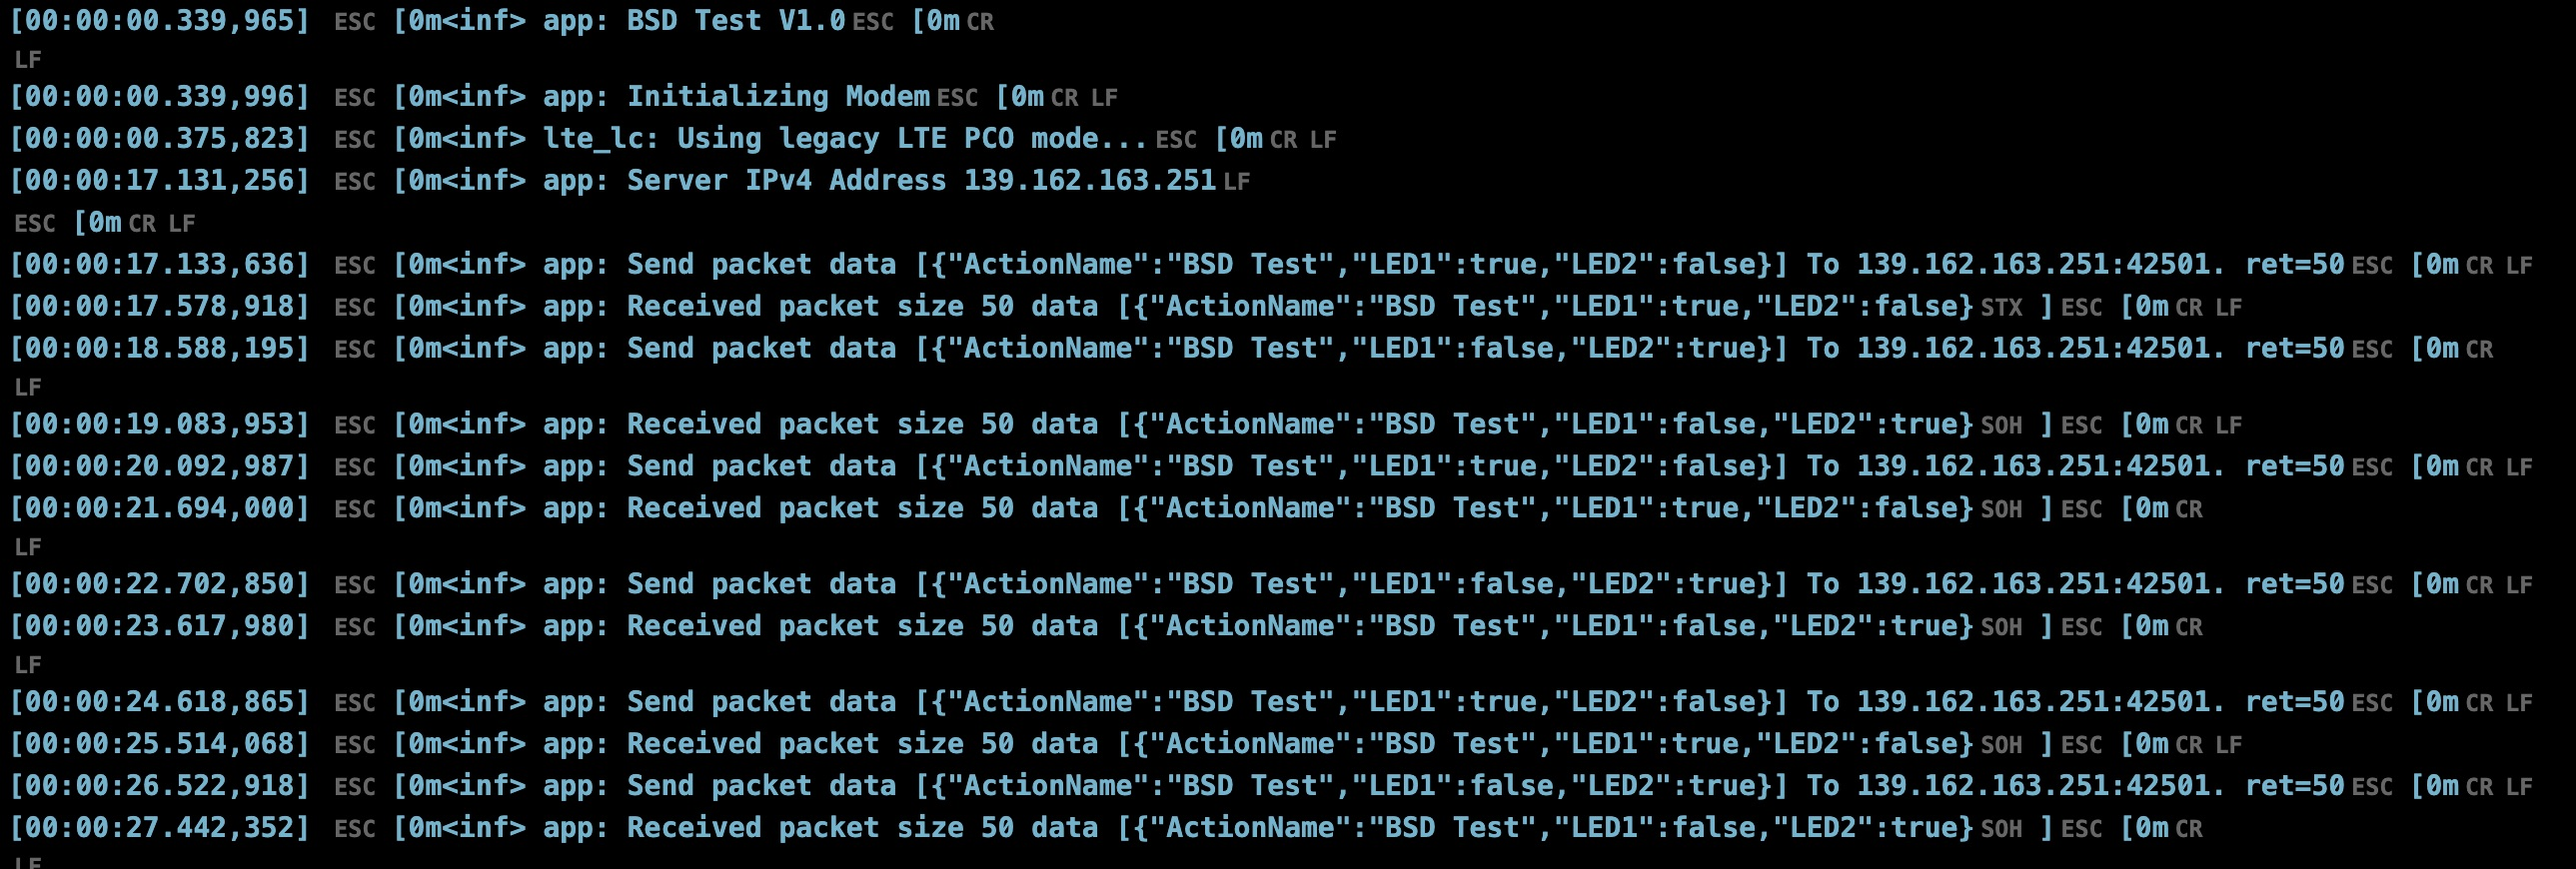
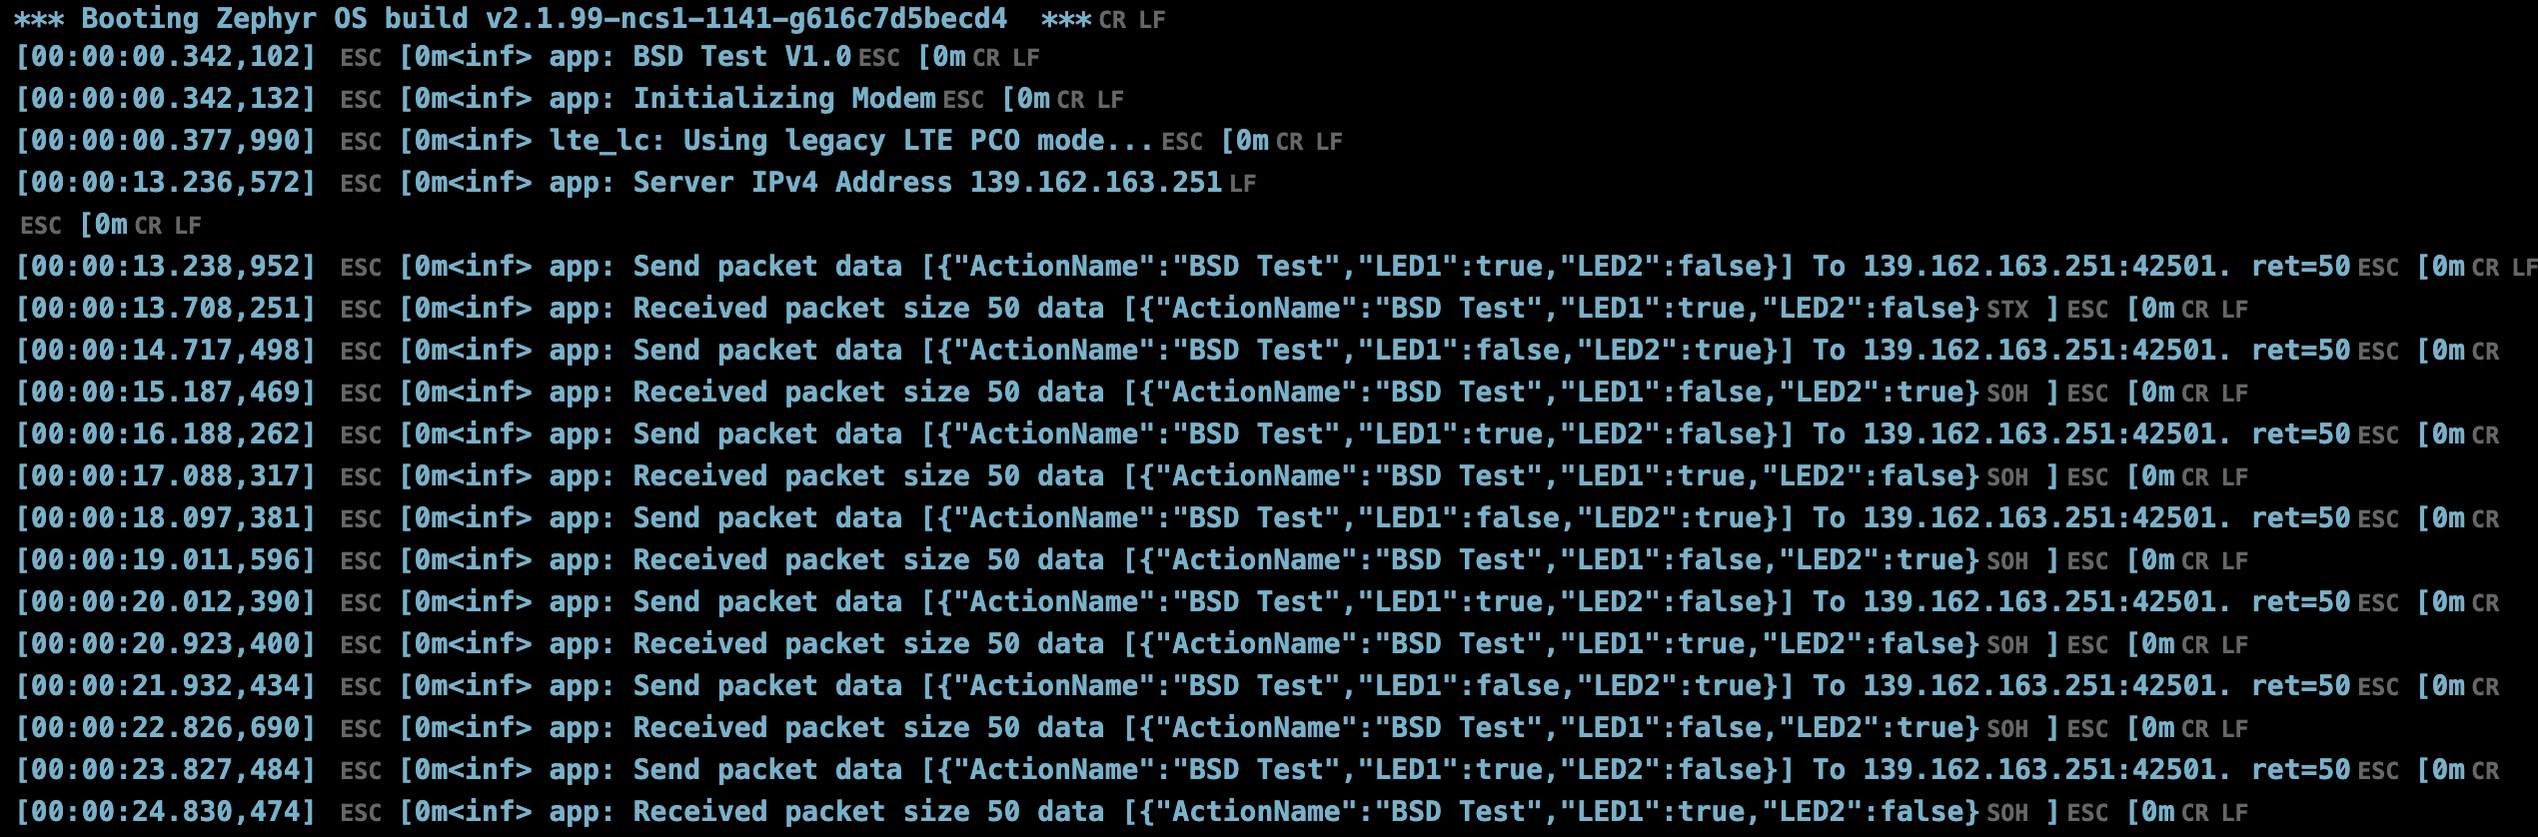
Initial commit

Changed region(s): [[0.0, 0.0, 1.0, 1.0]]

diff --git a/src/main.c b/src/main.c
@@ -1,0 +1,255 @@
+/*
+ *
+ * UDP Test
+ *
+ */
+
+#include <zephyr.h>
+#include <bsd.h>
+#include <net/socket.h>
+#include <modem/lte_lc.h>
+
+#include <drivers/gpio.h>
+#include <stdio.h>
+
+#include "cJSON.h"
+
+#define LED_PORT	DT_ALIAS_LED0_GPIOS_CONTROLLER
+#define LED1 DT_GPIO_LEDS_LED0_GPIOS_PIN
+#define LED2 DT_GPIO_LEDS_LED1_GPIOS_PIN
+#define LED3 DT_GPIO_LEDS_LED2_GPIOS_PIN
+#define LED4 DT_GPIO_LEDS_LED3_GPIOS_PIN
+
+
+static int server_socket;
+static struct sockaddr_storage server;
+
+LOG_MODULE_REGISTER(app, CONFIG_TEST1_LOG_LEVEL);
+
+#if defined(CONFIG_BSD_LIBRARY)
+
+/**@brief Recoverable BSD library error. */
+void bsd_recoverable_error_handler(uint32_t err)
+{
+  printk("bsdlib recoverable error: %u\n", err);
+}
+
+/**@brief Irrecoverable BSD library error. */
+void bsd_irrecoverable_error_handler(uint32_t err)
+{
+  printk("bsdlib irrecoverable error: %u\n", err);
+
+  __ASSERT_NO_MSG(false);
+}
+
+#endif /* defined(CONFIG_BSD_LIBRARY) */
+
+struct device *led_device;
+
+static void init_led()
+{
+
+    led_device = device_get_binding(LED_PORT);
+
+    /* Set LED pin as output */
+    gpio_pin_configure(led_device, LED1, GPIO_OUTPUT);
+    gpio_pin_configure(led_device, LED2, GPIO_OUTPUT);
+    gpio_pin_configure(led_device, LED3, GPIO_OUTPUT);
+    gpio_pin_configure(led_device, LED4, GPIO_OUTPUT);
+
+}
+
+static void led_on(char led)
+{
+    gpio_pin_set(led_device, led, 1);
+}
+static void led_off(char led)
+{
+    gpio_pin_set(led_device, led, 0);
+
+}
+
+static void led_on_off(char led, bool on_off)
+{
+    if (on_off)
+    {
+        led_on(led);
+    } else {
+        led_off(led);
+    }
+}
+
+static void init_modem(void)
+{
+    int err;
+
+     err = lte_lc_init_and_connect();
+    __ASSERT(err == 0, "ERROR: LTE link init and connect %d\n", err);
+
+    err = lte_lc_psm_req(false);
+    __ASSERT(err == 0, "ERROR: psm %d\n", err);
+
+     err = lte_lc_edrx_req(false);
+    __ASSERT(err == 0, "ERROR: edrx %d\n", err);
+}
+
+static int udp_ip_resolve(void)
+{
+    struct addrinfo *addrinfo;
+
+    struct addrinfo hints = {
+      .ai_family = AF_INET,
+      .ai_socktype = SOCK_DGRAM};
+
+    char ipv4_addr[NET_IPV4_ADDR_LEN];
+
+    if (getaddrinfo(CONFIG_SERVER_HOST, NULL, &hints, &addrinfo) != 0)
+    {
+        LOG_ERR("ERROR: getaddrinfo failed\n");
+        return -EIO;
+    }
+
+    if (addrinfo == NULL)
+    {
+        LOG_ERR("ERROR: Address not found\n");
+        return -ENOENT;
+    }
+
+    struct sockaddr_in *server_ipv4 = ((struct sockaddr_in *)&server);
+
+    server_ipv4->sin_addr.s_addr = ((struct sockaddr_in *)addrinfo->ai_addr)->sin_addr.s_addr;
+    server_ipv4->sin_family = AF_INET;
+    server_ipv4->sin_port = htons(CONFIG_SERVER_PORT);
+
+    inet_ntop(AF_INET, &server_ipv4->sin_addr.s_addr, ipv4_addr, sizeof(ipv4_addr));
+    LOG_INF("Server IPv4 Address %s\n", log_strdup(ipv4_addr));
+
+    freeaddrinfo(addrinfo);
+
+    return 0;
+}
+
+int create_udp_socket()
+{
+    int err;
+
+    server_socket = socket(AF_INET, SOCK_DGRAM, IPPROTO_UDP);
+    if (server_socket < 0)
+    {
+        LOG_ERR("Failed to create CoAP socket: %d.\n", errno);
+        return -errno;
+    }
+
+    err = connect(server_socket, (struct sockaddr *)&server,
+                sizeof(struct sockaddr_in));
+    if (err < 0)
+    {
+        LOG_ERR("Connect failed : %d\n", errno);
+        return -errno;
+    }
+
+    return 0;
+}
+
+bool led_toggle = false;
+
+char* create_json_msg() {
+
+
+
+    cJSON *monitor = cJSON_CreateObject();
+
+    cJSON *name = cJSON_CreateString("BSD Test");
+    led_toggle = !led_toggle;
+    cJSON *led1 = cJSON_CreateBool(led_toggle);
+    cJSON *led2 = cJSON_CreateBool(!led_toggle);
+
+    cJSON_AddItemToObject(monitor, "ActionName", name);
+    cJSON_AddItemToObject(monitor, "LED1", led1);
+    cJSON_AddItemToObject(monitor, "LED2", led2);
+
+    char *string = cJSON_PrintUnformatted(monitor);
+
+    cJSON_Delete(monitor);
+
+    return string;
+}
+
+static void action_json_msg(char *msgbuf) {
+
+    cJSON *monitor_json = cJSON_Parse(msgbuf);
+
+    if (monitor_json == NULL)
+    {
+        const char *error_ptr = cJSON_GetErrorPtr();
+        if (error_ptr != NULL)
+        {
+            LOG_ERR("ERROR: cJSON Parse : %s\n", error_ptr);
+            return;
+        }
+    }
+
+    cJSON *value_name = cJSON_GetObjectItemCaseSensitive(monitor_json, "ActionName");
+    if (cJSON_IsString(value_name) && (value_name->valuestring != NULL))
+    {
+        if (strcmp((value_name->valuestring),"BSD Test") == 0) {
+            cJSON *value_led1 = cJSON_GetObjectItemCaseSensitive(monitor_json, "LED1");
+            if (cJSON_IsString(value_name) && (value_name->valuestring != NULL)) {
+                led_on_off(LED3, value_led1->valueint);
+            }
+            cJSON *value_led2 = cJSON_GetObjectItemCaseSensitive(monitor_json, "LED2");
+            if (cJSON_IsString(value_name) && (value_name->valuestring != NULL)) {
+                led_on_off(LED4, value_led2->valueint);
+            }
+        }
+    }
+
+    cJSON_Delete(monitor_json);
+}
+
+
+int send_udp_msg()
+{
+    char msgbuf[100];
+    char *string = create_json_msg();
+
+    int ret = send(server_socket, string, strlen(string), 0);
+
+    LOG_INF("Send packet data [%s] To %s:%d. ret=%d",log_strdup(string), log_strdup(CONFIG_SERVER_HOST), CONFIG_SERVER_PORT, ret);
+
+    int recsize = recv(server_socket, msgbuf, sizeof msgbuf, 0);
+    LOG_INF("Received packet size %d data [%s]",recsize, log_strdup(msgbuf));
+
+    action_json_msg(msgbuf);
+
+    return 0;
+}
+
+
+void main(void)
+{
+    init_led();
+
+    LOG_INF("BSD Test V1.0");
+    led_on(LED1);
+
+    LOG_INF("Initializing Modem");
+    init_modem();
+
+    int err = udp_ip_resolve();
+    __ASSERT(err == 0, "ERROR: udp_ip_resolve");
+
+    create_udp_socket();
+    __ASSERT(err == 0, "ERROR: create_udp_socket");
+
+    for (;;) {
+
+        led_on(LED2);
+
+        send_udp_msg();
+
+        led_off(LED2);
+
+        k_sleep(1000);
+    }
+}
